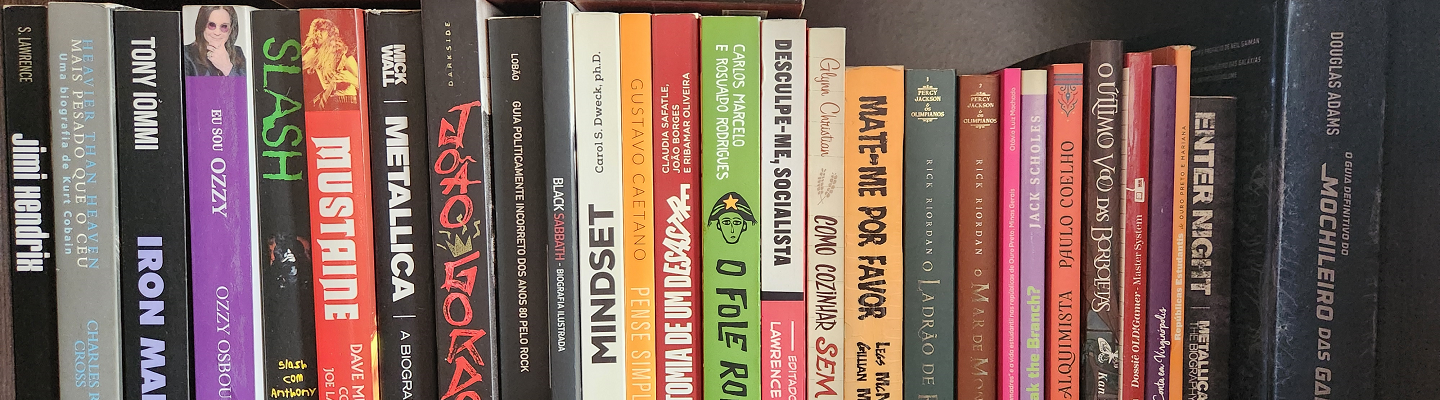
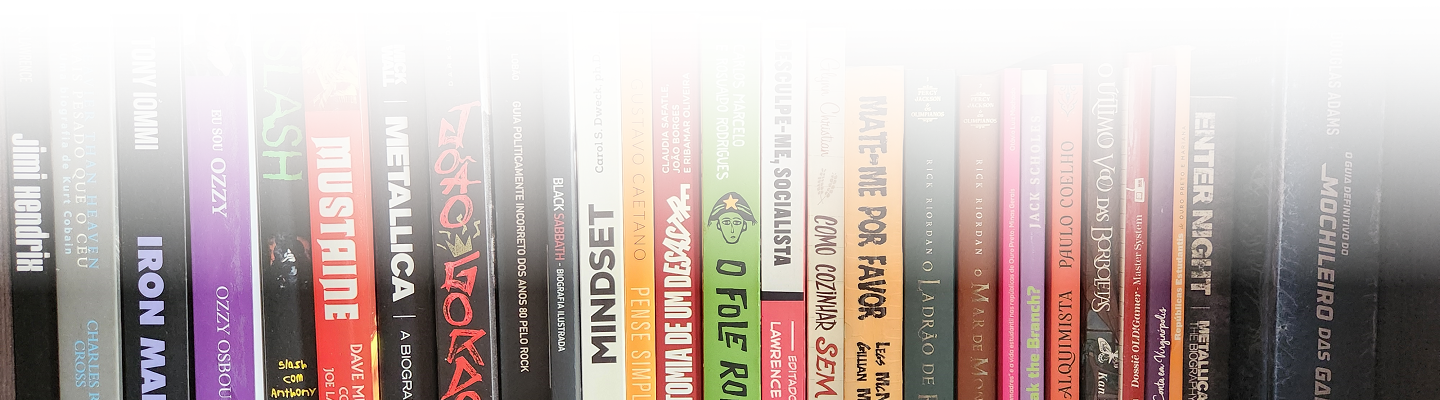
ajustes
- retirando botoes de funcionalidade ainda nao implementadas
- ajustes em imagens

diff --git a/src/app/shared/header/header.component.html b/src/app/shared/header/header.component.html
@@ -12,7 +12,7 @@
         <span class="spacer"></span>
         <button mat-button [routerLink]="['/home']">Página inicial</button>
         <button mat-button>Sobre</button>
-        <button mat-raised-button color="primary">Cadastrar</button>
-        <button mat-stroked-button>Login</button>
+        <!-- button mat-raised-button color="primary">Cadastrar</button -->
+        <!-- button mat-stroked-button>Login</button -->
     </mat-toolbar>
 </header>  
